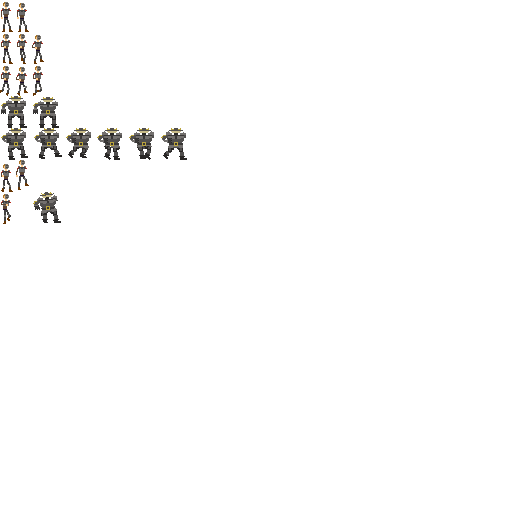
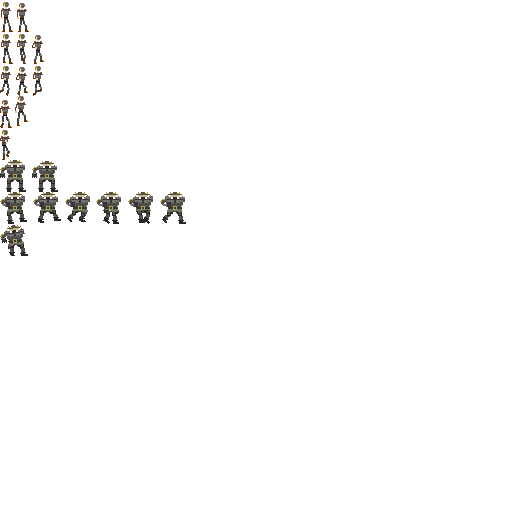
Added hurt animations

Changed region(s): [[0.0, 0.1875, 0.375, 0.5]]

diff --git a/enemy.cpp b/enemy.cpp
@@ -4,6 +4,7 @@ using namespace std;
 enum anims{
 	IDLE,
 	WALK,
+	HURT
 };
 
 #define FRAMERATE 4
@@ -115,12 +116,19 @@ void Enemy::update(float dt){
 		thisAttack->update(dt);
 	}
 
-	if(this->currentAnim == IDLE){
+	if (invulnWindow > 0 && currentAnim != HURT) {
+		currentAnim = HURT;
+		currentFrame = 0;
+	}
+
+	if (this->currentAnim == IDLE){
 		currentFrame += FRAMERATE*dt;	
 		currentFrame = fmod(currentFrame, 2);
 	} else if(this->currentAnim == WALK){
 		currentFrame += WFRAMERATE*dt;
 		currentFrame = fmod(currentFrame, 6);
+	} else if(this->currentAnim == HURT){
+		currentFrame = 0;
 	}
 
 	// Fall off? DED
@@ -138,7 +146,7 @@ void Enemy::update(float dt){
 void Enemy::render(sf::RenderWindow &screen){
 	if (!dead) {
 		//cout << currentFrame << " " << currentAnim << endl;
-		sprite.setTextureRect(sf::IntRect((int)currentFrame*32,(3+this->currentAnim)*32,32,32));
+		sprite.setTextureRect(sf::IntRect((int)currentFrame*32,(5+this->currentAnim)*32,32,32));
 		sprite.setPosition(pos);
 		if(facingLeft){
 			sprite.move(64,0);

diff --git a/player.cpp b/player.cpp
@@ -12,6 +12,8 @@ enum Anims {
 	IDLE,
 	WALK,
 	KWALK,
+	JUMP,
+	HURT
 };
 
 Player::Player(){
@@ -121,6 +123,11 @@ void Player::update(float dt){
 		thisAttack->update(dt);
 	}
 
+
+	if (invulnWindow > 0 && currentAnim != HURT) {
+		currentAnim = HURT;
+	}
+	
 	if(this->currentAnim == IDLE){
 		currentFrame += FRAMERATE*dt;	
 		currentFrame = fmod(currentFrame, 2);
@@ -134,6 +141,8 @@ void Player::update(float dt){
 	} else if(this->currentAnim == KWALK){
 		currentFrame += KFRAMERATE*dt;
 		currentFrame = fmod(currentFrame, 3);
+	} else if (currentAnim == HURT) {
+		currentFrame = 0;
 	}
 }
 
